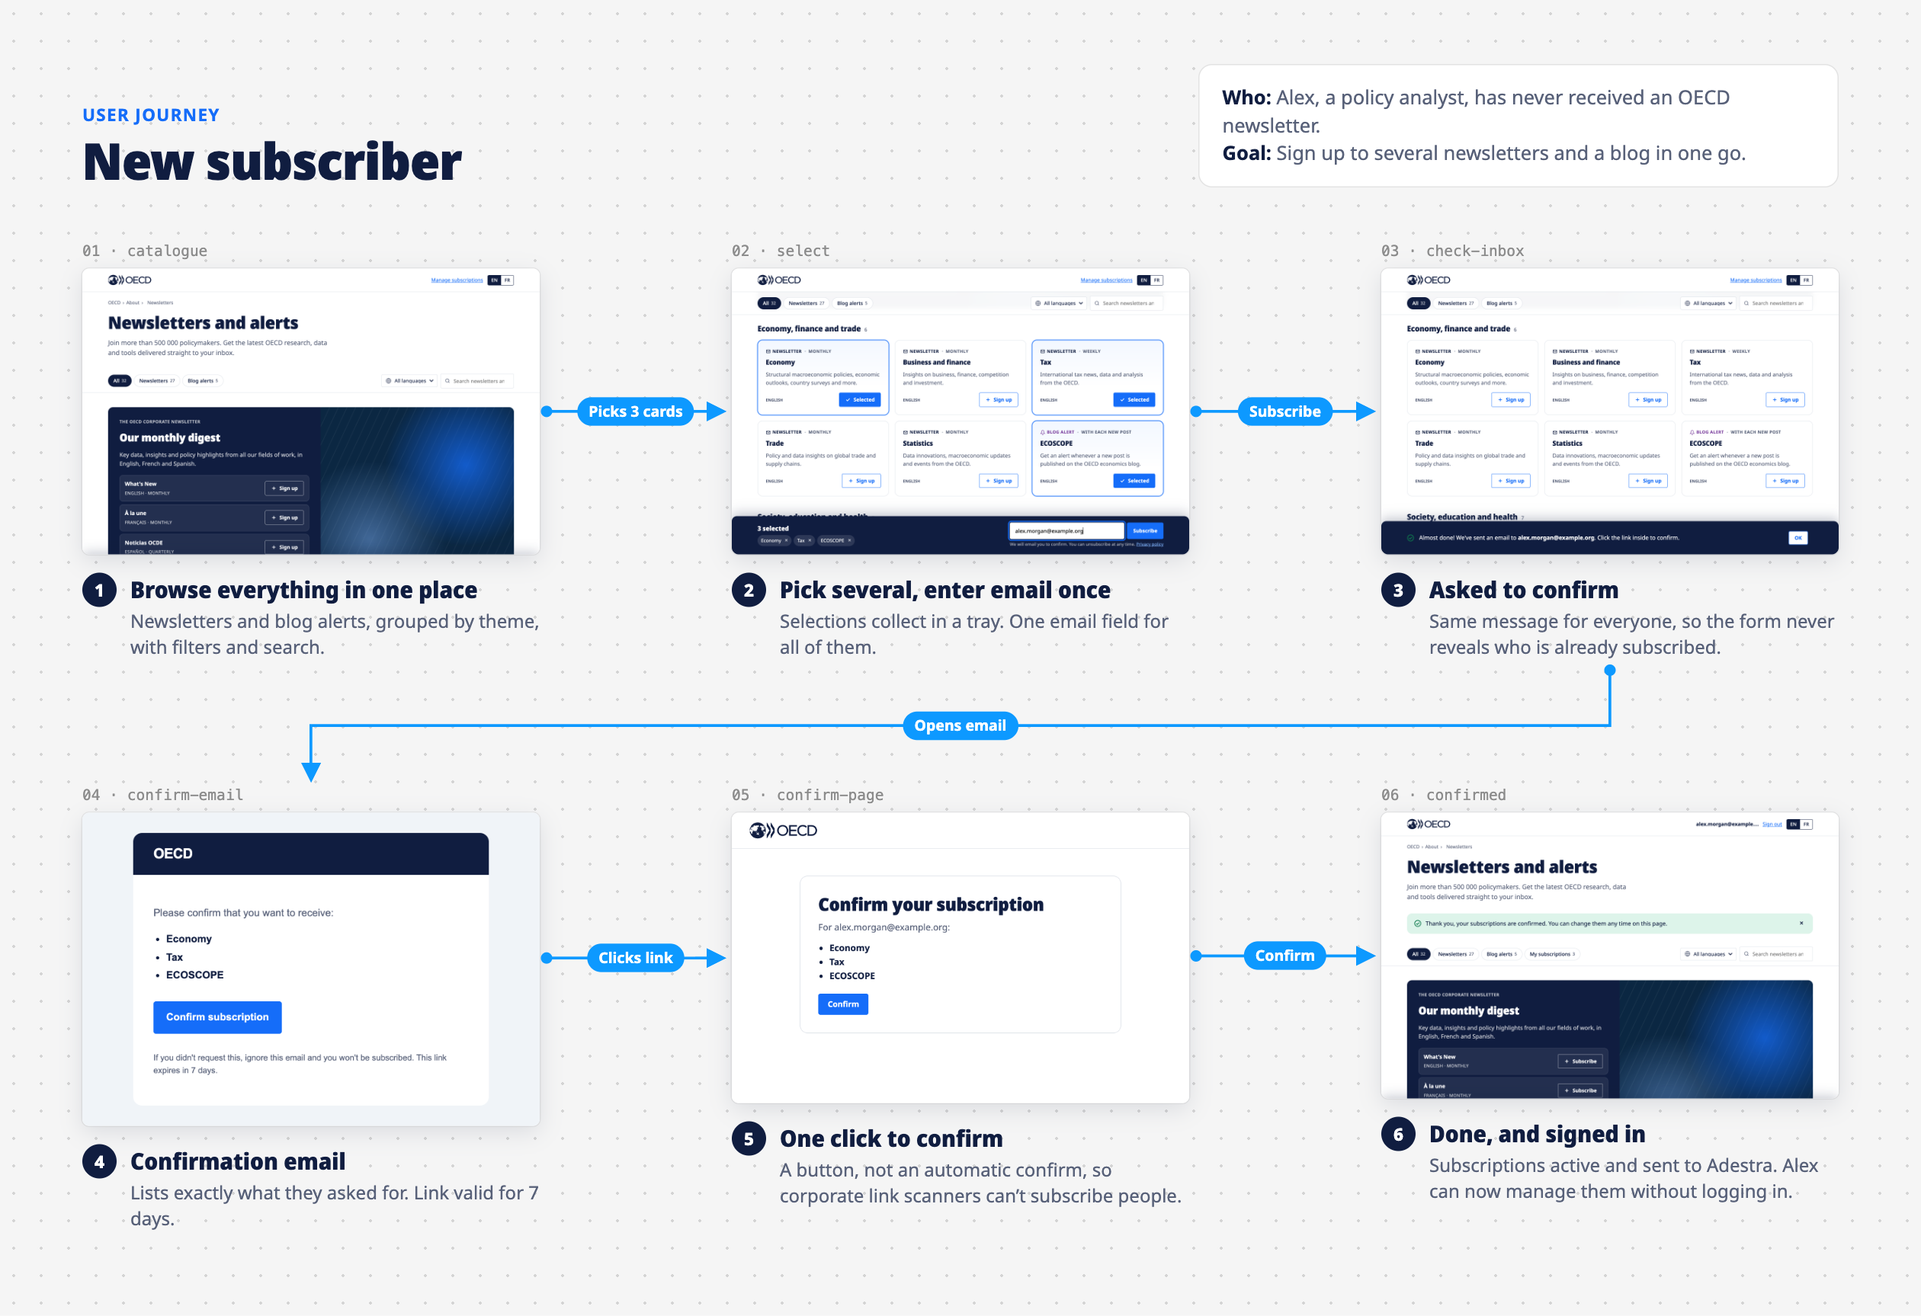
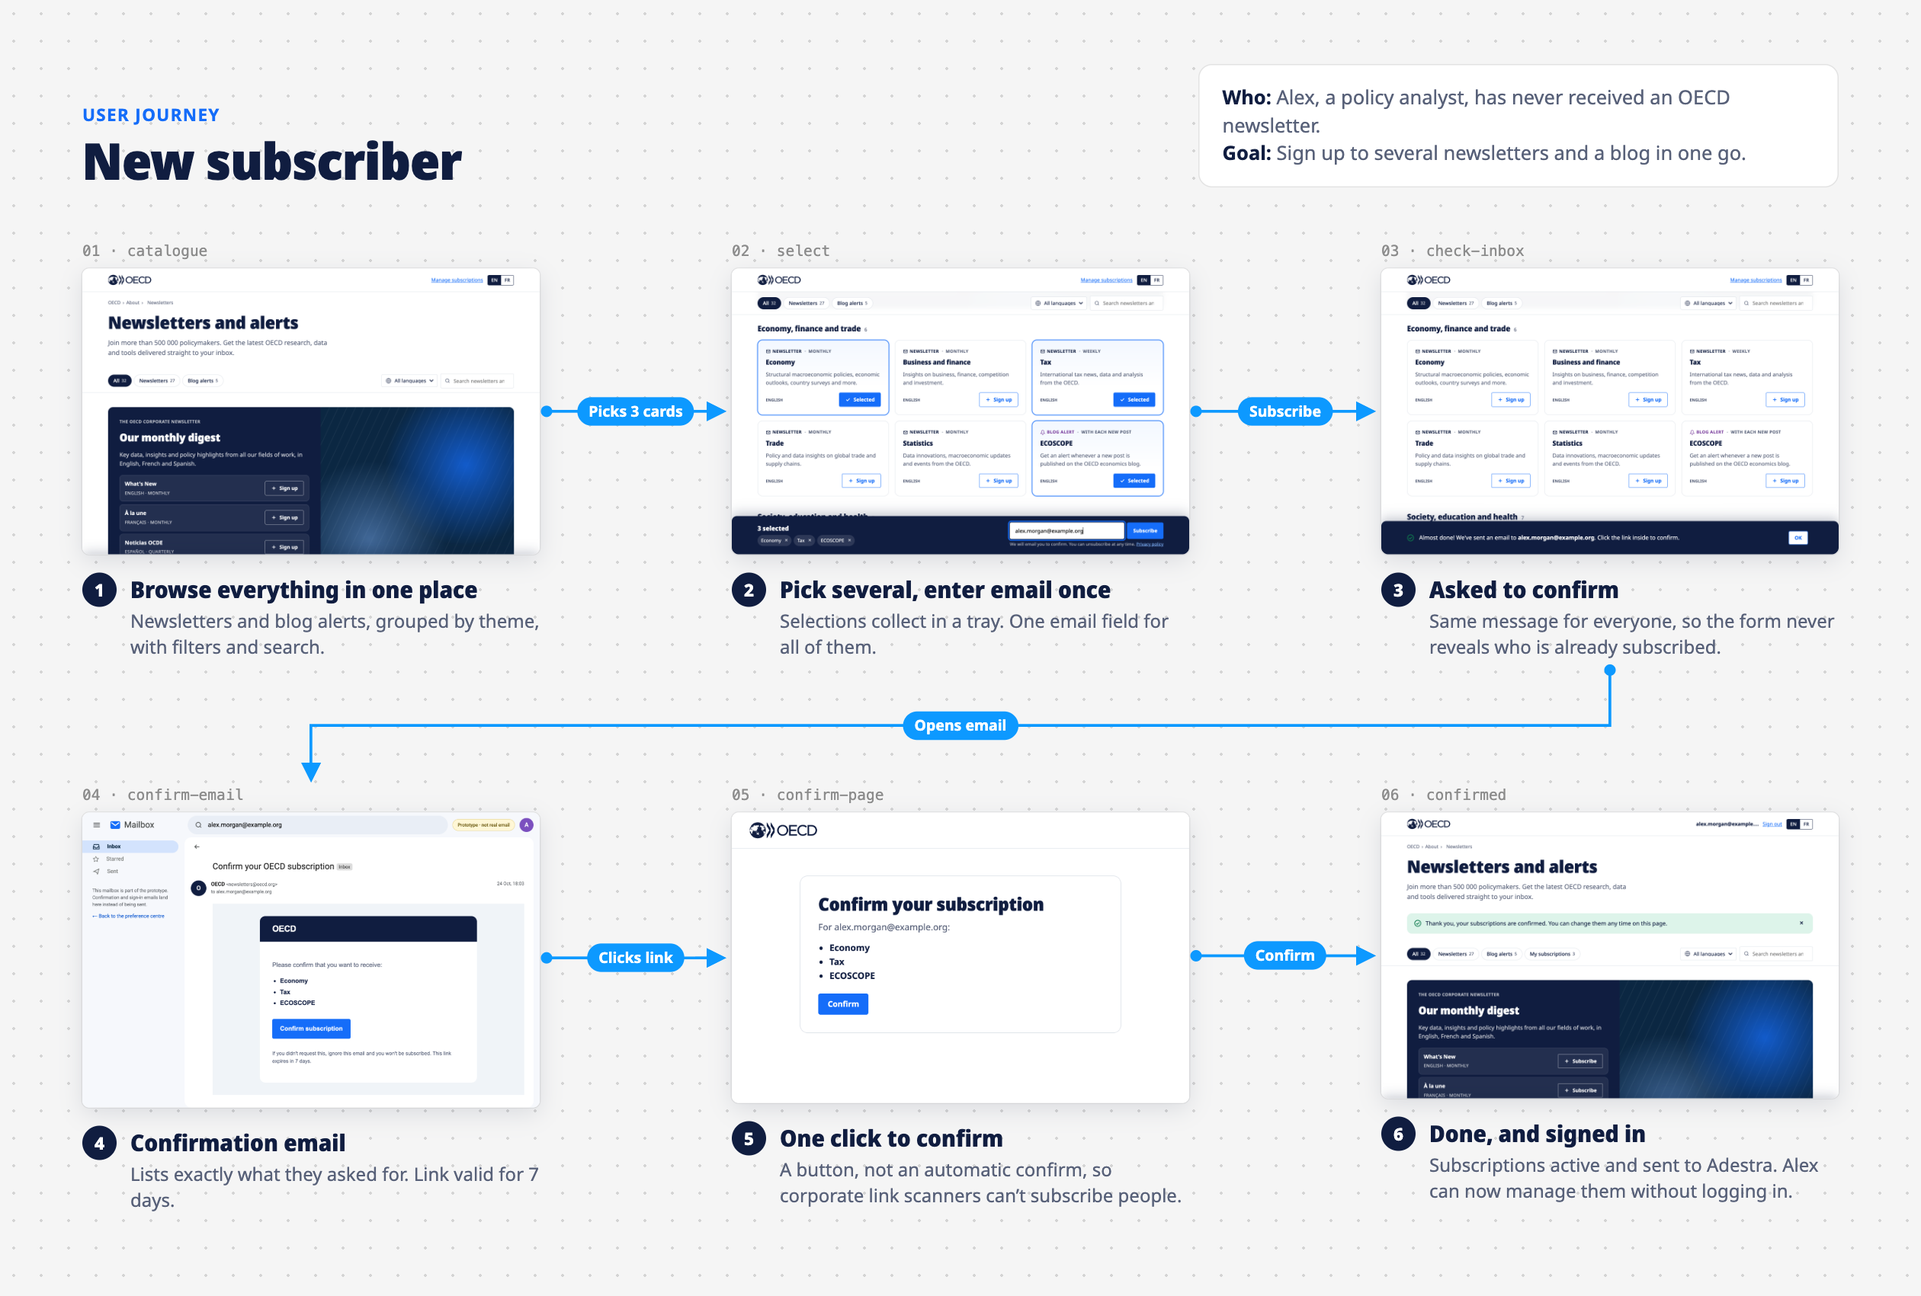
Webmail-style prototype mailbox
Inbox list with unread state, recipient filter and a message view, so
testers recognise they're in their email. Check-your-inbox messages link
to it, and the journey boards now show emails inside the mailbox.

diff --git a/src/devmail.ts b/src/devmail.ts
@@ -1,0 +1,213 @@
+// Prototype-only mailbox: a familiar webmail-style view of the emails the preference centre "sent",
+// so testers understand they've stepped into their inbox. Deliberately generic, not a copy of any real product.
+
+import { Hono } from 'hono';
+import type { Env } from './env';
+import { esc } from './html';
+import { FROM_ADDRESS, FROM_NAME } from './mail';
+
+interface DevMail {
+  id: number;
+  to_email: string;
+  subject: string;
+  html: string;
+  created_at: string;
+  read_at: string | null;
+}
+
+const app = new Hono<{ Bindings: Env }>();
+
+const snippet = (html: string) =>
+  html
+    .replace(/<style[\s\S]*?<\/style>/gi, '')
+    .replace(/<[^>]+>/g, ' ')
+    .replace(/&[a-z#0-9]+;/gi, ' ')
+    .replace(/\s+/g, ' ')
+    .replace(/^\s*OECD\s*/, '')
+    .trim()
+    .slice(0, 140);
+
+// created_at is UTC 'YYYY-MM-DD HH:MM:SS'. Show the time for today's mail, the date otherwise.
+const when = (utc: string, full = false) => {
+  const d = new Date(utc.replace(' ', 'T') + 'Z');
+  const sameDay = d.toDateString() === new Date().toDateString();
+  const time = d.toLocaleTimeString('en-GB', { hour: '2-digit', minute: '2-digit', timeZone: 'Europe/Paris' });
+  const date = d.toLocaleDateString('en-GB', { day: 'numeric', month: 'short', timeZone: 'Europe/Paris' });
+  return full ? `${date}, ${time}` : sameDay ? time : date;
+};
+
+const icon = {
+  menu: '<svg width="22" height="22" viewBox="0 0 24 24" fill="currentColor"><path d="M3 6h18v2H3zm0 5h18v2H3zm0 5h18v2H3z"/></svg>',
+  mail: '<svg width="30" height="30" viewBox="0 0 24 24"><rect x="2" y="4" width="20" height="16" rx="3" fill="#156df9"/><path d="m4 7 8 6 8-6" fill="none" stroke="#fff" stroke-width="2"/></svg>',
+  search: '<svg width="20" height="20" viewBox="0 0 24 24" fill="none" stroke="currentColor" stroke-width="2"><circle cx="11" cy="11" r="7"/><path d="m20 20-3.5-3.5"/></svg>',
+  inbox: '<svg width="20" height="20" viewBox="0 0 24 24" fill="none" stroke="currentColor" stroke-width="2"><path d="M3 13h5l1.5 3h5L16 13h5"/><path d="M5 5h14l2 8v6H3v-6z"/></svg>',
+  star: '<svg width="18" height="18" viewBox="0 0 24 24" fill="none" stroke="currentColor" stroke-width="1.8"><path d="m12 3 2.8 5.7 6.2.9-4.5 4.4 1 6.2L12 17.3 6.5 20.2l1-6.2L3 9.6l6.2-.9z"/></svg>',
+  send: '<svg width="20" height="20" viewBox="0 0 24 24" fill="none" stroke="currentColor" stroke-width="2"><path d="M4 12 20 4l-4 16-4-7z"/></svg>',
+  back: '<svg width="20" height="20" viewBox="0 0 24 24" fill="none" stroke="currentColor" stroke-width="2"><path d="M19 12H5m6-6-6 6 6 6"/></svg>',
+  refresh: '<svg width="18" height="18" viewBox="0 0 24 24" fill="none" stroke="currentColor" stroke-width="2"><path d="M20 12a8 8 0 1 1-2.3-5.7M20 4v5h-5"/></svg>',
+};
+
+const avatar = (name: string, color = '#101d40') =>
+  `<span class="av" style="background:${color}" aria-hidden="true">${esc(name.slice(0, 1).toUpperCase())}</span>`;
+
+function shell(opts: { to: string; unread: number; body: string; title: string; refresh?: boolean }) {
+  const toQ = opts.to ? `?to=${encodeURIComponent(opts.to)}` : '';
+  return `<!doctype html><html lang="en"><head><meta charset="utf-8">
+<meta name="viewport" content="width=device-width,initial-scale=1">
+<title>${esc(opts.title)} · Prototype mailbox</title>
+${opts.refresh ? '<meta http-equiv="refresh" content="10">' : ''}
+<link href="https://fonts.googleapis.com/css2?family=Roboto:wght@400;500;700&display=swap" rel="stylesheet">
+<style>${css}</style></head>
+<body>
+<header class="top">
+  <span class="ic">${icon.menu}</span>
+  <a class="brand" href="/dev/mailbox${toQ}">${icon.mail}<span>Mailbox</span></a>
+  <form class="search" action="/dev/mailbox">
+    ${icon.search}
+    <input name="to" type="search" value="${esc(opts.to)}" placeholder="Show mail for an address, e.g. you@example.org" aria-label="Filter by recipient">
+  </form>
+  <span class="proto" title="Emails are not really sent. Everyone testing the prototype shares this mailbox.">Prototype · not real email</span>
+  ${opts.to ? avatar(opts.to, '#7b4fbf') : ''}
+</header>
+<div class="layout">
+  <nav class="side">
+    <a class="nav on" href="/dev/mailbox${toQ}">${icon.inbox}<span>Inbox</span>${opts.unread ? `<b>${opts.unread}</b>` : ''}</a>
+    <span class="nav dim">${icon.star}<span>Starred</span></span>
+    <span class="nav dim">${icon.send}<span>Sent</span></span>
+    <p class="note">This mailbox is part of the prototype. Confirmation and sign-in emails land here instead of being sent.${opts.to ? '' : ' Everyone testing shares it, so filter by your address above.'}</p>
+    <a class="back-to" href="/">← Back to the preference centre</a>
+  </nav>
+  <main class="panel">${opts.body}</main>
+</div>
+</body></html>`;
+}
+
+const filter = (to: string) => (to ? `WHERE to_email = ?1 COLLATE NOCASE` : '');
+
+app.get('/', async (c) => {
+  const to = (c.req.query('to') ?? '').trim();
+  const stmt = c.env.DB.prepare(`SELECT * FROM dev_mail ${filter(to)} ORDER BY id DESC LIMIT 50`);
+  const { results } = await (to ? stmt.bind(to) : stmt).all<DevMail>();
+  const unread = results.filter((m) => !m.read_at).length;
+  const toQ = to ? `?to=${encodeURIComponent(to)}` : '';
+
+  const rows = results
+    .map(
+      (m) => `<a class="row ${m.read_at ? '' : 'unread'}" href="/dev/mailbox/${m.id}${toQ}">
+        <span class="box" aria-hidden="true"></span>
+        <span class="star" aria-hidden="true">${icon.star}</span>
+        <span class="from">${esc(FROM_NAME)}</span>
+        <span class="subj"><span class="s">${esc(m.subject)}</span><span class="snip"> – ${esc(snippet(m.html))}</span></span>
+        ${to ? '' : `<span class="to" title="Recipient">${esc(m.to_email)}</span>`}
+        <span class="time">${when(m.created_at)}</span>
+      </a>`,
+    )
+    .join('');
+
+  const body = `<div class="bar">
+      <span class="box" aria-hidden="true"></span>
+      <a class="ic" href="/dev/mailbox${toQ}" title="Refresh">${icon.refresh}</a>
+      <span class="count">${results.length ? `1–${results.length} of ${results.length}` : ''}</span>
+    </div>
+    ${
+      rows ||
+      `<div class="empty"><p><b>No mail yet${to ? ` for ${esc(to)}` : ''}.</b></p><p>Sign up on the preference centre and your confirmation email will appear here. This page refreshes every 10 seconds.</p></div>`
+    }`;
+  return c.html(shell({ to, unread, body, title: 'Inbox', refresh: true }));
+});
+
+app.get('/:id{[0-9]+}', async (c) => {
+  const to = (c.req.query('to') ?? '').trim();
+  const m = await c.env.DB.prepare(`SELECT * FROM dev_mail WHERE id = ?1`).bind(Number(c.req.param('id'))).first<DevMail>();
+  if (!m) return c.notFound();
+  await c.env.DB.prepare(`UPDATE dev_mail SET read_at = datetime('now') WHERE id = ?1 AND read_at IS NULL`).bind(m.id).run();
+  const unreadStmt = c.env.DB.prepare(`SELECT COUNT(*) AS n FROM dev_mail ${to ? 'WHERE to_email = ?1 COLLATE NOCASE AND' : 'WHERE'} read_at IS NULL`);
+  const unread = (await (to ? unreadStmt.bind(to) : unreadStmt).first<{ n: number }>())!.n;
+  const toQ = to ? `?to=${encodeURIComponent(to)}` : '';
+
+  // No scripts run inside the email; allow-same-origin only lets this page size the frame to its content.
+  const body = `<div class="bar">
+      <a class="ic" href="/dev/mailbox${toQ}" title="Back to Inbox">${icon.back}</a>
+    </div>
+    <article class="msg">
+      <h1>${esc(m.subject)} <span class="tag">Inbox</span></h1>
+      <div class="sender">
+        ${avatar(FROM_NAME)}
+        <div class="who"><b>${esc(FROM_NAME)}</b> <span>&lt;${esc(FROM_ADDRESS)}&gt;</span><div class="tome">to ${esc(m.to_email)}</div></div>
+        <span class="time">${when(m.created_at, true)}</span>
+      </div>
+      <iframe id="mail" title="Email content" sandbox="allow-same-origin allow-popups allow-popups-to-escape-sandbox allow-top-navigation-by-user-activation"
+        srcdoc="${esc(m.html.replace(/<a /g, '<a target="_top" '))}"></iframe>
+    </article>
+    <script>
+      const f = document.getElementById('mail');
+      f.addEventListener('load', () => { f.style.height = f.contentDocument.documentElement.scrollHeight + 'px'; });
+    </script>`;
+  return c.html(shell({ to, unread, body, title: m.subject }));
+});
+
+const css = `
+* { box-sizing: border-box; }
+body { margin: 0; background: #f6f8fc; color: #1f1f1f; font: 14px/1.4 Roboto, 'Segoe UI', Arial, sans-serif; }
+a { color: inherit; text-decoration: none; }
+.top { display: flex; align-items: center; gap: 12px; height: 64px; padding: 8px 16px; }
+.ic { display: inline-flex; padding: 10px; border-radius: 50%; color: #444746; cursor: pointer; }
+.ic:hover { background: rgba(68,71,70,.08); }
+.brand { display: flex; align-items: center; gap: 8px; font-size: 22px; color: #444746; width: 190px; flex: none; }
+.search { flex: 1; max-width: 720px; display: flex; align-items: center; gap: 12px; background: #e9eef6; border-radius: 28px; padding: 0 18px; height: 48px; color: #444746; }
+.search:focus-within { background: #fff; box-shadow: 0 1px 3px rgba(0,0,0,.2); }
+.search input { flex: 1; border: 0; background: transparent; font: inherit; font-size: 16px; outline: none; min-width: 0; }
+.proto { margin-left: auto; font-size: 12px; font-weight: 500; color: #6b5a10; background: #fff7d6; border: 1px solid #e8d48a; border-radius: 999px; padding: 6px 12px; white-space: nowrap; }
+.av { display: inline-flex; align-items: center; justify-content: center; flex: none; width: 36px; height: 36px; border-radius: 50%; color: #fff; font-weight: 500; font-size: 16px; }
+.layout { display: flex; gap: 8px; padding: 0 16px 16px 0; min-height: calc(100vh - 64px); }
+.side { width: 256px; flex: none; padding: 8px 0; }
+.nav { display: flex; align-items: center; gap: 18px; height: 32px; padding: 0 12px 0 26px; border-radius: 0 16px 16px 0; color: #1f1f1f; margin-right: 8px; }
+.nav.on { background: #d3e3fd; font-weight: 700; color: #001d35; }
+.nav b { margin-left: auto; font-size: 12px; }
+.nav.dim { color: #747775; }
+.note { margin: 24px 16px 0 26px; font-size: 12px; color: #5f6368; line-height: 1.5; }
+.back-to { display: block; margin: 12px 16px 0 26px; font-size: 13px; color: #0b57d0; }
+.panel { flex: 1; min-width: 0; background: #fff; border-radius: 16px; overflow: hidden; }
+.bar { display: flex; align-items: center; gap: 4px; height: 48px; padding: 0 12px; }
+.bar .count { margin-left: auto; font-size: 12px; color: #5f6368; padding-right: 8px; }
+.box { width: 18px; height: 18px; border: 2px solid #757575; border-radius: 2px; flex: none; margin: 0 8px; }
+.row { display: flex; align-items: center; gap: 4px; height: 40px; padding: 0 16px 0 8px; border-bottom: 1px solid #f1f3f4; background: #f2f6fc; cursor: pointer; }
+.row.unread { background: #fff; }
+.row:hover { box-shadow: inset 1px 0 0 #dadce0, inset -1px 0 0 #dadce0, 0 1px 2px rgba(60,64,67,.3); position: relative; z-index: 1; }
+.row .star { color: #9aa0a6; display: inline-flex; margin-right: 8px; }
+.row .from { width: 168px; flex: none; overflow: hidden; text-overflow: ellipsis; white-space: nowrap; }
+.row .subj { flex: 1; min-width: 0; overflow: hidden; text-overflow: ellipsis; white-space: nowrap; }
+.row .snip { color: #5f6368; }
+.row .to { font-size: 12px; color: #444746; background: #eef1f6; border-radius: 4px; padding: 2px 8px; margin-left: 12px; max-width: 220px; overflow: hidden; text-overflow: ellipsis; white-space: nowrap; }
+.row .time { width: 72px; text-align: right; font-size: 12px; flex: none; }
+.row.unread .from, .row.unread .s, .row.unread .time { font-weight: 700; color: #1f1f1f; }
+.empty { padding: 48px 24px; text-align: center; color: #5f6368; }
+.msg { padding: 8px 24px 32px 72px; }
+.msg h1 { font-size: 22px; font-weight: 400; margin: 4px 0 20px; color: #1f1f1f; }
+.msg .tag { font-size: 12px; background: #ddd; border-radius: 4px; padding: 2px 6px; vertical-align: middle; color: #444; }
+.sender { display: flex; align-items: flex-start; gap: 12px; margin: 0 0 20px -56px; }
+.sender .av { width: 40px; height: 40px; }
+.who { flex: 1; }
+.who span { color: #5f6368; font-size: 12px; }
+.tome { color: #5f6368; font-size: 12px; margin-top: 2px; }
+.sender .time { font-size: 12px; color: #5f6368; }
+#mail { width: 100%; border: 0; min-height: 300px; display: block; }
+@media (max-width: 1100px) {
+  .side { width: 72px; }
+  .nav { padding: 0 0 0 26px; gap: 0; }
+  .nav span, .nav b, .note, .back-to { display: none; }
+  .brand { width: auto; }
+  .row .from { width: 110px; }
+}
+@media (max-width: 760px) {
+  .side, .proto, .brand span { display: none; }
+  .brand { width: auto; }
+  .layout { padding: 0 8px 8px; }
+  .row .from { width: 90px; }
+  .row .to { display: none; }
+  .msg { padding: 8px 16px 24px; }
+  .sender { margin-left: 0; }
+}
+`;
+
+export default app;

diff --git a/public/app.js b/public/app.js
@@ -18,6 +18,7 @@ const strings = {
     emailPlaceholder: 'Your email address', email: 'Email address',
     privacy: 'We will email you to confirm. You can unsubscribe at any time. <a href="https://www.oecd.org/en/about/privacy.html" target="_blank">Privacy policy</a>',
     checkInbox: (e) => `Almost done! We've sent an email to <strong>${e}</strong>. Click the link inside to confirm.`,
+    openMailbox: 'Open the prototype mailbox',
     ok: 'OK', remove: 'Remove', cancel: 'Cancel', sendLink: 'Send me a link',
     signinTitle: 'Manage your subscriptions',
     signinIntro: "Enter your email address and we'll send you a link to see and change your subscriptions. No password needed.",
@@ -47,6 +48,7 @@ const strings = {
     emailPlaceholder: 'Votre adresse e-mail', email: 'Adresse e-mail',
     privacy: 'Nous vous enverrons un e-mail de confirmation. Désabonnement possible à tout moment. <a href="https://www.oecd.org/fr/about/privacy.html" target="_blank">Politique de confidentialité</a>',
     checkInbox: (e) => `Presque terminé ! Nous avons envoyé un e-mail à <strong>${e}</strong>. Cliquez sur le lien pour confirmer.`,
+    openMailbox: 'Ouvrir la boîte mail du prototype',
     ok: 'OK', remove: 'Retirer', cancel: 'Annuler', sendLink: 'Envoyer le lien',
     signinTitle: 'Gérer vos abonnements',
     signinIntro: 'Saisissez votre adresse e-mail : nous vous enverrons un lien pour consulter et modifier vos abonnements. Aucun mot de passe nécessaire.',
@@ -93,6 +95,9 @@ const t = (k, ...a) => {
   return typeof v === 'function' ? v(...a) : v;
 };
 const signedIn = () => !!state.me.email;
+// Prototype only: emails aren't really sent, they land in the dev mailbox.
+const mailboxLink = (email) =>
+  `<a class="mailbox-link" href="/dev/mailbox?to=${encodeURIComponent(email)}" target="_blank">${t('openMailbox')} ↗</a>`;
 const isOn = (edId) => (signedIn() ? state.me.editions.has(edId) : state.selected.has(edId));
 const edition = (id) => state.cat.topics.flatMap((tp) => tp.editions).find((e) => e.id === id);
 
@@ -249,7 +254,7 @@ function renderTray() {
   document.body.classList.toggle('tray-open', open);
   if (!open) return;
   if (state.trayDone) {
-    $('#tray-content').innerHTML = `<div class="tray-done">${icons.ok}<p>${t('checkInbox', esc(state.trayDone))}</p>
+    $('#tray-content').innerHTML = `<div class="tray-done">${icons.ok}<p>${t('checkInbox', esc(state.trayDone))}<br>${mailboxLink(state.trayDone)}</p>
       <button type="button" class="btn btn-outline" data-tray-ok style="margin-left:auto">${t('ok')}</button></div>`;
     return;
   }
@@ -363,7 +368,7 @@ document.addEventListener('submit', async (ev) => {
     try {
       await api('/api/signin', { email, lang: state.ui });
       $('#signin-dialog').close();
-      toast(t('signinSent', esc(email)));
+      toast(`${t('signinSent', esc(email))} ${mailboxLink(email)}`);
     } catch {
       toast(t('error'));
     }

diff --git a/src/index.ts b/src/index.ts
@@ -3,6 +3,7 @@ import { basicAuth } from 'hono/basic-auth';
 import { cors } from 'hono/cors';
 import { deleteCookie, getCookie, setCookie } from 'hono/cookie';
 import { editionsById, frequencies, isEdition, languageNames, themes, topics } from './catalogue';
+import devmail from './devmail';
 import type { Env } from './env';
 import { actionPage, esc, messagePage, page } from './html';
 import { confirmEmail, mailer, signinEmail } from './mail';
@@ -184,18 +185,7 @@ app.use('/dev/*', async (c, next) => {
   return basicAuth({ username: 'oecd', password: c.env.DEV_PASSWORD })(c, next);
 });
 
-app.get('/dev/mailbox', async (c) => {
-  const { results } = await c.env.DB.prepare(`SELECT * FROM dev_mail ORDER BY id DESC LIMIT 30`).all<any>();
-  const items = results
-    .map(
-      (m) => `<details class="dev-item" ${m === results[0] ? 'open' : ''}>
-        <summary><strong>${esc(m.subject)}</strong> <span>to ${esc(m.to_email)} · ${esc(m.created_at)} UTC</span></summary>
-        <iframe sandbox="allow-popups allow-popups-to-escape-sandbox allow-top-navigation-by-user-activation" srcdoc="${esc(m.html.replace(/<a /g, '<a target="_top" '))}"></iframe>
-      </details>`,
-    )
-    .join('');
-  return c.html(page('Dev mailbox', `<h1>Dev mailbox</h1><p class="lede">Emails the prototype would have sent. Newest first.</p>${items || '<p>No emails yet.</p>'}`));
-});
+app.route('/dev/mailbox', devmail);
 
 app.get('/dev/adestra', async (c) => {
   const [outbox, consent] = await Promise.all([

diff --git a/public/styles.css b/public/styles.css
@@ -156,6 +156,7 @@ main.catalogue { padding-bottom: 160px; }
 .tray input[type='email'] { flex: 1; min-width: 220px; font: 400 15px/1 var(--font-body); padding: 12px 14px; border-radius: var(--radius-control); border: 1px solid transparent; }
 .tray .fine { font-size: 12px; margin: 6px 0 0; color: rgba(255, 255, 255, 0.65); }
 .tray .fine a { color: #82b6ff; }
+.mailbox-link { color: #82b6ff; font-weight: 700; font-size: 14px; }
 .tray-done { display: flex; gap: 14px; align-items: center; color: var(--white); }
 
 /* ---------- Toast */

diff --git a/src/mail.ts b/src/mail.ts
@@ -6,6 +6,10 @@ import { editionsById } from './catalogue';
 import type { Env } from './env';
 import { esc } from './html';
 
+// Placeholder sender; the real address depends on the sending domain chosen for production.
+export const FROM_NAME = 'OECD';
+export const FROM_ADDRESS = 'newsletters@oecd.org';
+
 export interface Mailer {
   send(to: string, subject: string, html: string): Promise<void>;
 }

diff --git a/README.md b/README.md
@@ -132,7 +132,7 @@ npm run dev
 
 Open http://localhost:8787. The yellow "Prototype" bar links to:
 
-- **Mailbox** (`/dev/mailbox`): the confirmation and sign-in emails the prototype "sent". Click the links in them to continue the flow.
+- **Mailbox** (`/dev/mailbox`): a webmail-style inbox holding the confirmation and sign-in emails the prototype "sent" (nothing is really emailed). Filter it by your address and click the links in the emails to continue the flow. The "check your inbox" messages link straight to it.
 - **Adestra sync** (`/dev/adestra`): the outbox of changes pushed to Adestra, the consent log, and a sample newsletter footer with manage/unsubscribe links.
 - **Widget demo** (`/demo/tax.html`): the signup widget on a mock oecd.org topic page.
 
